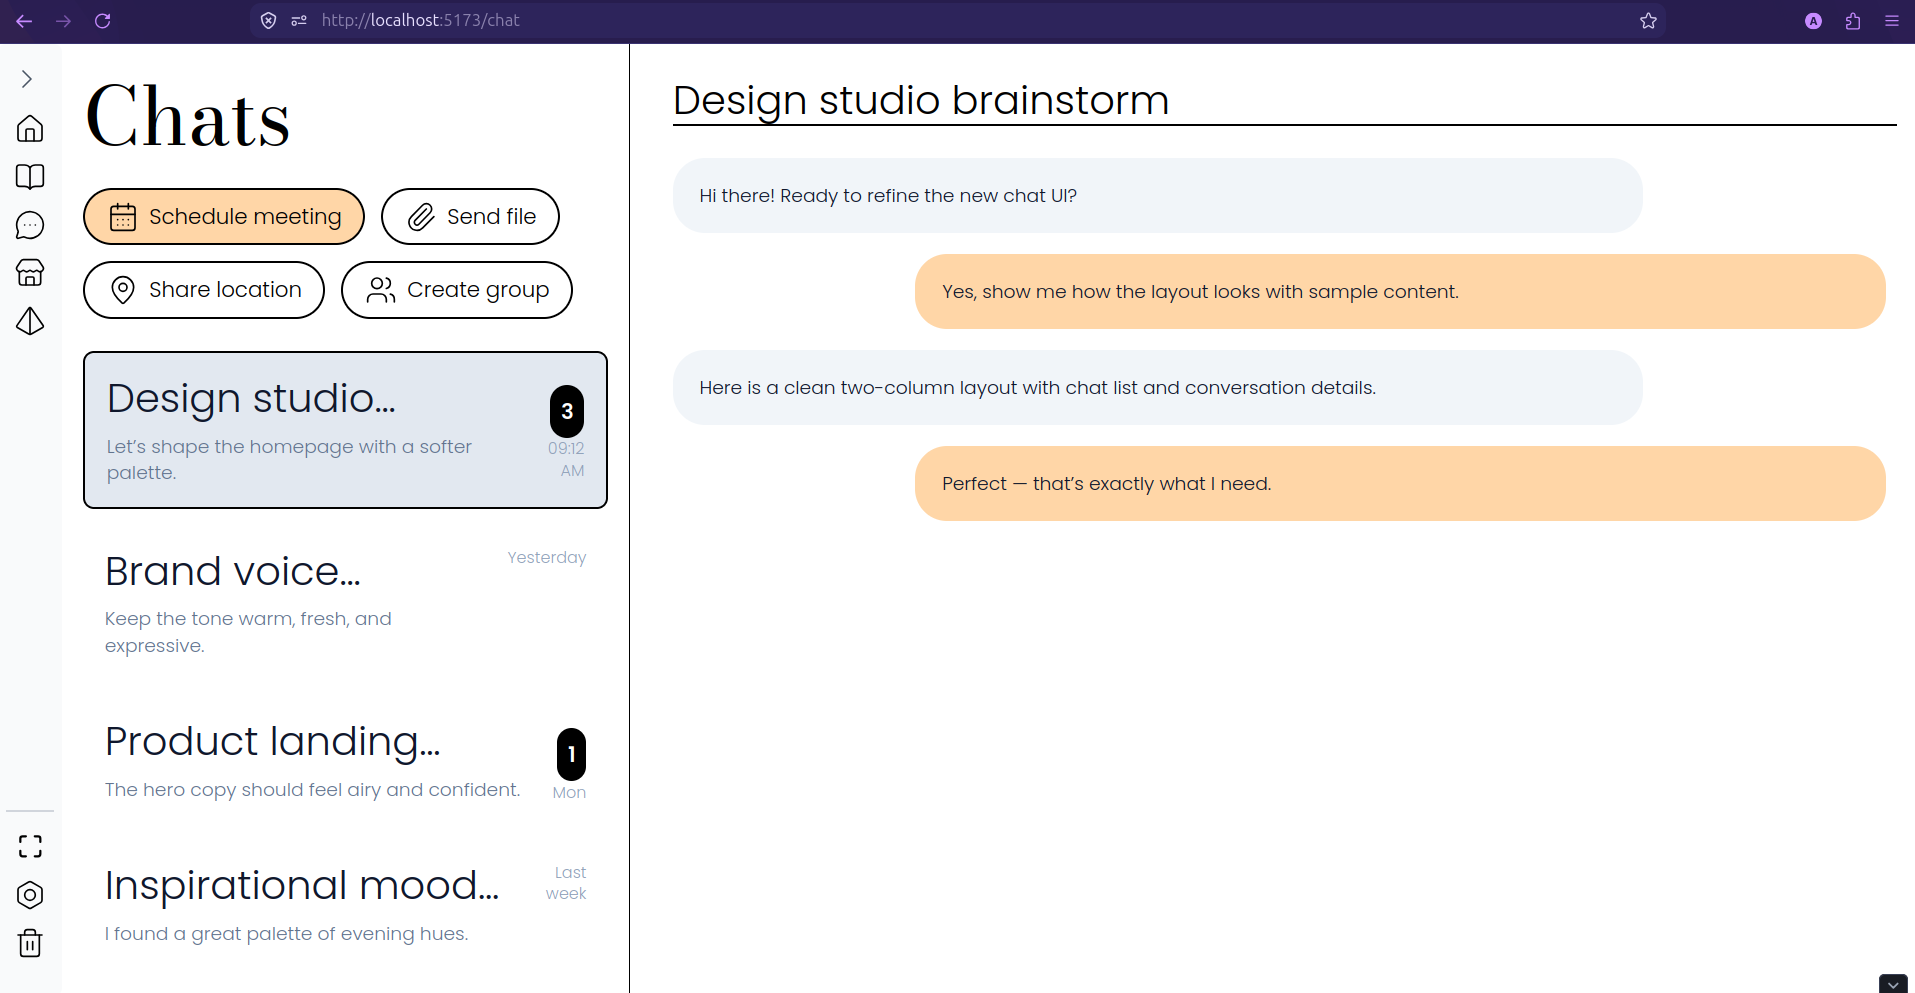
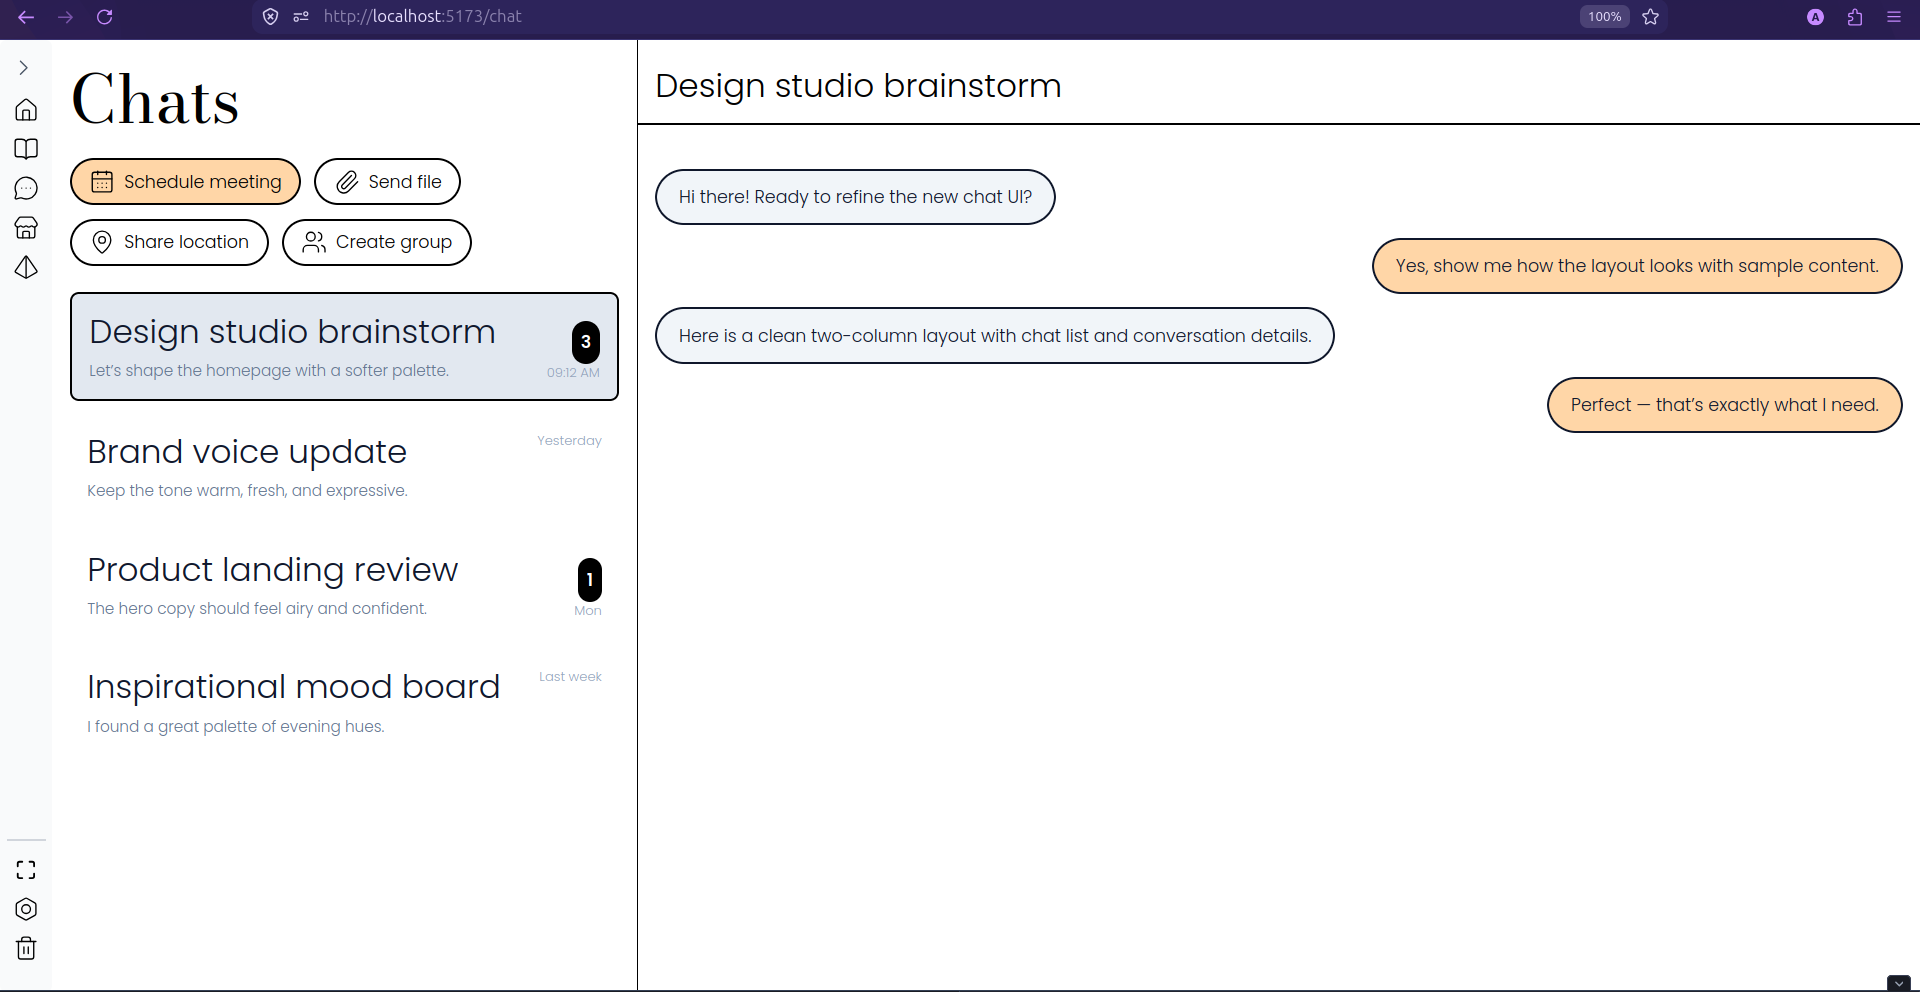
added spinner component

diff --git a/belle/src/routes/chat.tsx b/belle/src/routes/chat.tsx
@@ -1,6 +1,6 @@
 import { createFileRoute } from '@tanstack/react-router'
 import { useState } from 'react'
-import { CalendarDays, MapPin, Paperclip, Users } from 'lucide-react'
+import { CalendarDays, MapPin, Paperclip, Search, Users } from 'lucide-react'
 import ChatDetails from '../components/ChatDetails'
 import ChatList from '../components/ChatList'
 
@@ -52,7 +52,7 @@ const messages: Message[] = [
   { role: 'assistant', content: 'Hi there! Ready to refine the new chat UI?' },
   { role: 'user', content: 'Yes, show me how the layout looks with sample content.' },
   { role: 'assistant', content: 'Here is a clean two-column layout with chat list and conversation details.' },
-  { role: 'user', content: 'Perfect — that’s exactly what I need.' },
+  { role: 'user', content: 'Perfect — that\'s exactly what I need.' },
 ]
 
 export const Route = createFileRoute('/chat')({
@@ -64,9 +64,9 @@ function RouteComponent() {
   const [selectedChatId, setSelectedChatId] = useState<number>(chats[0].id)
   const actions = [
     { key: 'schedule', label: 'Schedule meeting', Icon: CalendarDays },
-    { key: 'file', label: 'Send file', Icon: Paperclip },
     { key: 'location', label: 'Share location', Icon: MapPin },
     { key: 'group', label: 'Create group', Icon: Users },
+    { key: 'search', label: 'Search', Icon: Search },
   ]
   const selectedChat = chats.find((c) => c.id === selectedChatId) ?? chats[0]
 
@@ -86,3 +86,4 @@ function RouteComponent() {
     </div>
   )
 }
+

diff --git a/belle/src/components/NotesList.tsx b/belle/src/components/NotesList.tsx
@@ -1,6 +1,7 @@
 import { Link } from "@tanstack/react-router";
 import { useState } from "react";
 import useFetchQuery from '../utils/useFetchQuery'
+import Spinner from "./Spinner";
 
 type Note = {
     id: number | string
@@ -22,7 +23,7 @@ export default function NotesList() {
     const BASE = (import.meta.env.VITE_API_BASE as string) || 'http://localhost:3000/api'
     const { data: pages = [], isLoading } = useFetchQuery<Note[]>({ queryKey: ['notes'], queryLink: `${BASE}/notes` })
 
-    if (isLoading) return <div className="p-8">Loading...</div>;
+    if (isLoading) return <Spinner />;
 
     return (<>
         <div className="flex flex-wrap justify-center gap-6 my-10">
@@ -59,6 +60,8 @@ export default function NotesList() {
                                 src={image}
                                 alt={note.title || `Note ${note.id}`}
                                 loading="lazy"
+                                className="w-full aspect-square object-cover"
+                            // fix for img jumping is give img size 
                             />
                         ) : (
                             <div className="p-4">

diff --git a/belle/src/components/Spinner.tsx b/belle/src/components/Spinner.tsx
@@ -1,0 +1,16 @@
+const Spinner = ({ msg = 'Loading' }) => {
+    return (
+        <div className="w-full flex flex-col items-center justify-center m-4 p-4">
+            <div className="relative w-10 aspect-square animate-[spin_1s_infinite]">
+                <div className="absolute top-0 left-1/2 -translate-x-1/2 w-2.5 h-2.5 rounded-full bg-orange-400" />
+                <div className="absolute left-0 top-1/2 -translate-y-1/2 w-2.5 h-2.5 rounded-full bg-orange-400" />
+                <div className="absolute right-0 top-1/2 -translate-y-1/2 w-2.5 h-2.5 rounded-full bg-orange-400" />
+                <div className="absolute bottom-0 left-1/2 -translate-x-1/2 w-2.5 h-2.5 rounded-full bg-orange-400" />
+            </div>
+
+            <p className="text-lg">{msg}</p>
+        </div>
+    );
+};
+
+export default Spinner;

diff --git a/belle/src/routes/notes.$noteId.tsx b/belle/src/routes/notes.$noteId.tsx
@@ -1,6 +1,7 @@
 import { createFileRoute } from '@tanstack/react-router'
 import NoteDetails from '../components/NoteDetails'
 import useFetchQuery from '../utils/useFetchQuery'
+import Spinner from '../components/Spinner'
 
 type NoteBlock = {
   id: number | string
@@ -30,7 +31,7 @@ function RouteComponent() {
   const BASE = (import.meta.env.VITE_API_BASE as string) || 'http://localhost:3000/api'
   const { data: note, isLoading } = useFetchQuery<Note>({ queryKey: ['note', noteId], queryLink: `${BASE}/notes/${noteId}`, queryOptions: { enabled: !!noteId } })
 
-  if (isLoading) return <div className='p-8'>Loading...</div>
+  if (isLoading) return <Spinner />
 
   if (!note) {
     return <div className='p-8'>Note not found.</div>

diff --git a/belle/src/main.tsx b/belle/src/main.tsx
@@ -6,9 +6,14 @@ import './index.css'
 // Import the generated route tree
 import { routeTree } from './routeTree.gen'
 import { QueryClient, QueryClientProvider } from '@tanstack/react-query'
+import Spinner from './components/Spinner'
 
 // Create a new router instance
-const router = createRouter({ routeTree })
+const router = createRouter({
+  routeTree,
+  defaultPendingComponent: () => <Spinner />,
+  defaultPendingMinMs: 300,
+})
 
 // Register the router instance for type safety
 declare module '@tanstack/react-router' {

diff --git a/belle/src/routes/shop.tsx b/belle/src/routes/shop.tsx
@@ -14,7 +14,7 @@ function RouteComponent() {
     </div>
     <div>
       <div className="flex flex-wrap justify-center gap-6 my-10">
-        {(['Electronics', 'Grocery', 'Gifts & Flowers', 'Beauty', 'Women\'s Fashion', 'Men\'s Fashion', 'Baby', 'Brands'] as const).map((item) => (
+        {(['Electronics', 'Grocery', 'Gifts & Flowers', 'Beauty', 'Fashion', 'Baby', 'Brands'] as const).map((item) => (
           <button
             key={item}
             onClick={() => setMenu(item)}

diff --git a/README.md b/README.md
@@ -16,6 +16,9 @@
 		- VITE_FRONTEND_PORT=5173
 		- VITE_BACKEND_PORT=3000
 
+## TODO
+ Darkmode
+ Fully functional notes section
 
 ## Run the project
 
